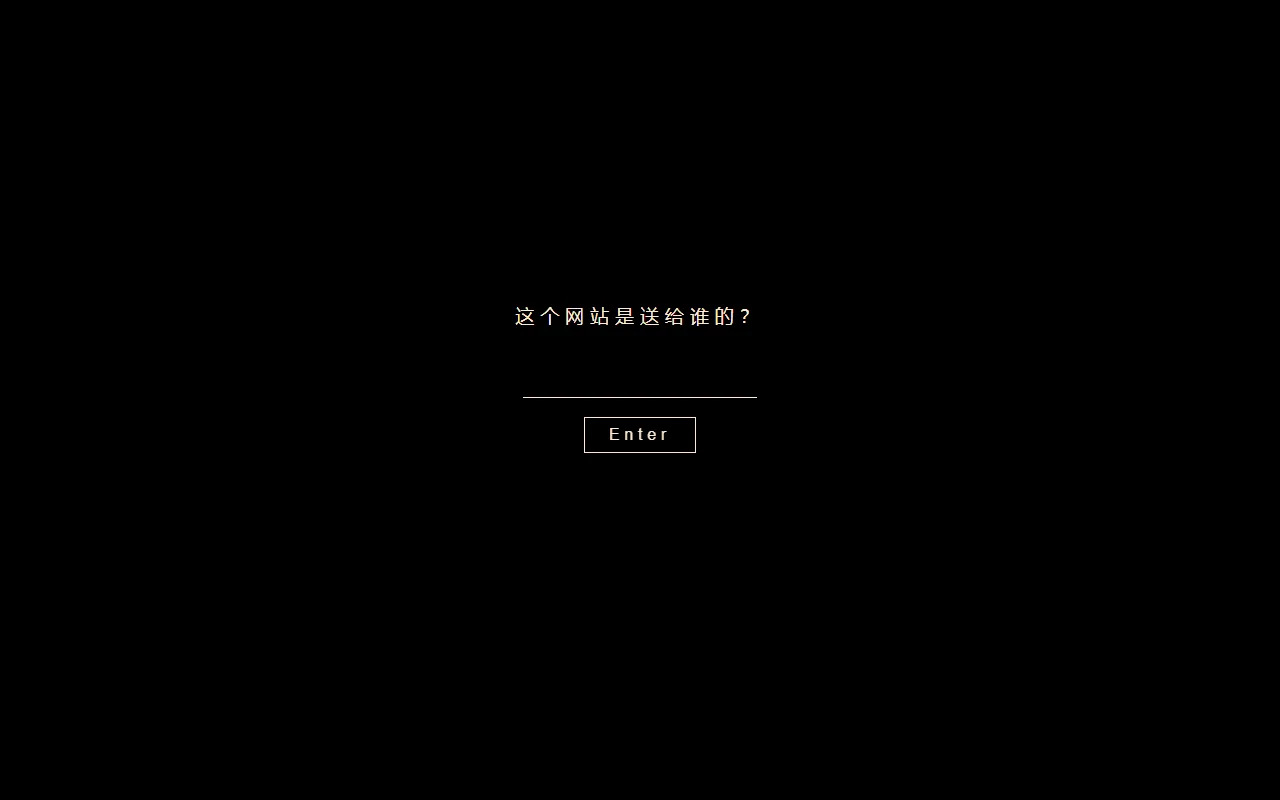
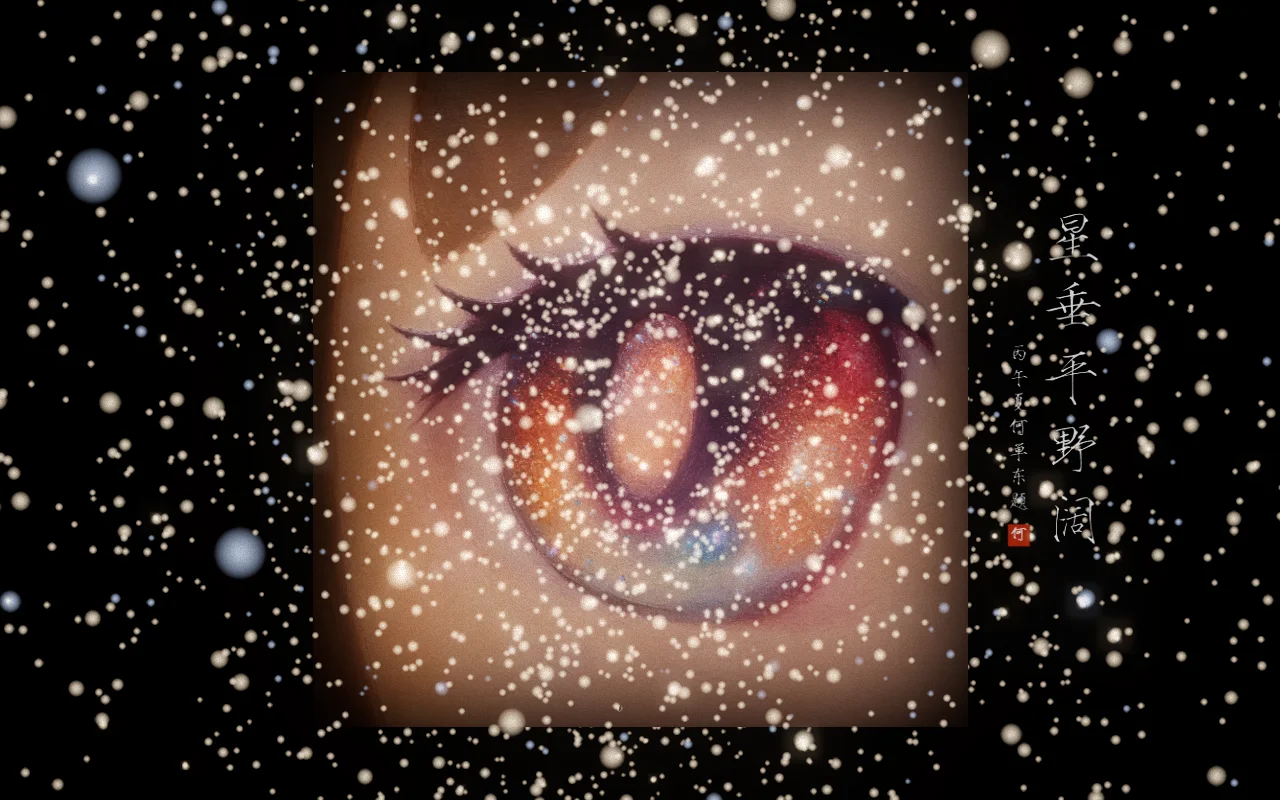
Show Starry-Eyes artwork and highlight PhD opportunities

diff --git a/index.html b/index.html
@@ -3,24 +3,24 @@
 <head>
 <meta charset="utf-8">
 <meta name="viewport" content="width=device-width,initial-scale=1">
-<title>Shandong He — Research & Engineering</title>
-<meta name="description" content="Shandong He builds full-stack applications, backend systems, and research-informed AI tools. Explore completed software projects and publications.">
+<title>Shandong He — Seeking PhD Opportunities</title>
+<meta name="description" content="Shandong He is a master’s student at Kyushu University seeking PhD opportunities in reliable AI and AI for Science. Explore research, publications, and software projects.">
 <meta name="theme-color" content="#f8f8f7">
 <link rel="canonical" href="https://lorendw7.github.io/">
 <meta property="og:type" content="website">
-<meta property="og:title" content="Shandong He — Research & Engineering">
-<meta property="og:description" content="Completed web and backend projects, a live product demo, and research in reliable AI.">
+<meta property="og:title" content="Shandong He — Seeking PhD Opportunities">
+<meta property="og:description" content="Seeking PhD opportunities in reliable AI and AI for Science. Research and software projects by Shandong He, Kyushu University.">
 <meta property="og:url" content="https://lorendw7.github.io/">
 <meta property="og:image" content="https://lorendw7.github.io/assets/hero-bg.jpg">
 <meta name="twitter:card" content="summary_large_image">
-<meta name="twitter:title" content="Shandong He — Research & Engineering">
-<meta name="twitter:description" content="Completed software projects and research in reliable AI.">
+<meta name="twitter:title" content="Shandong He — Seeking PhD Opportunities">
+<meta name="twitter:description" content="Kyushu University master’s student seeking PhD opportunities in reliable AI and AI for Science.">
 <meta name="twitter:image" content="https://lorendw7.github.io/assets/hero-bg.jpg">
 <link rel="icon" href="assets/favicon.svg?v=monochrome-20261009" type="image/svg+xml">
-<link rel="stylesheet" href="styles.css?v=20261015-previews">
-<link rel="stylesheet" href="simplefolio.css?v=20261015-previews">
-<script src="navigation.js?v=20261015-previews" defer></script>
-<script src="main.js?v=20261015-previews" defer>
+<link rel="stylesheet" href="styles.css?v=20261015-phd">
+<link rel="stylesheet" href="simplefolio.css?v=20261015-phd">
+<script src="navigation.js?v=20261015-phd" defer></script>
+<script src="main.js?v=20261015-phd" defer>
 </script>
 </head>
 <body>
@@ -65,16 +65,17 @@
 <br>
 <em>Shandong He.</em>
 </h1>
-<p class="hero-role">Software engineering · Backend &amp; full-stack</p>
-<p class="hero-intro">I'm a master's student at Kyushu University. I build web applications, APIs, and microservices, and study how to make AI systems more reliable. From a concrete problem to working software.</p>
+<p class="hero-role">Seeking PhD opportunities · Reliable AI &amp; AI for Science</p>
+<p class="hero-intro">I'm a master's student at Kyushu University, studying how to make AI systems more reliable. My interests include knowledge graphs, language models, and scientific computing. I combine research experiments with hands-on software development.</p>
 <div class="hero-links">
-<a class="button primary cta-btn cta-btn--hero" href="#projects">
-<span>Explore projects</span> ↗</a>
+<a class="button primary cta-btn cta-btn--hero" href="#research">
+<span>Explore research</span> ↗</a>
+<a class="text-link" href="#projects">Software projects ↗</a>
 <a class="text-link" href="https://github.com/lorendw7" target="_blank" rel="noopener noreferrer">GitHub ↗</a>
 </div>
 <div class="hero-note">
-<span class="small-label">CAREER FOCUS</span>
-<span>Expected Mar 2028 · Seeking software and AI engineering roles in Japan</span>
+<span class="small-label">PHD OPPORTUNITIES</span>
+<span>Seeking doctoral research opportunities · M.S. expected Mar 2028</span>
 </div>
 </div>
 <figure class="hero-image">
@@ -85,13 +86,13 @@
 </figure>
 </section>
 <div class="focus-strip">
-<span>Java / Spring Boot</span>
-<span aria-hidden="true">✳</span>
-<span>Python / TypeScript</span>
-<span aria-hidden="true">✳</span>
-<span>APIs &amp; microservices</span>
-<span aria-hidden="true">✳</span>
 <span>Reliable AI</span>
+<span aria-hidden="true">✳</span>
+<span>Knowledge graphs</span>
+<span aria-hidden="true">✳</span>
+<span>Language models</span>
+<span aria-hidden="true">✳</span>
+<span>Scientific computing</span>
 </div>
 <section class="section" id="projects" aria-labelledby="projects-title">
 <div class="section-heading">
@@ -200,8 +201,8 @@
 <div class="project-top"><span>09 / CREATIVE CODING</span><span class="live-badge">Live website</span></div>
 <a class="project-mark live-preview website-preview" href="https://starry-eyes.vercel.app/" target="_blank" rel="noopener noreferrer" aria-label="Open Starry-Eyes website (opens in a new tab)">
 <span class="preview-address"><span class="preview-dots" aria-hidden="true">● ● ●</span><span>starry-eyes.vercel.app</span><span aria-hidden="true">↗</span></span>
-<img src="assets/projects/starry-eyes-1280.webp" srcset="assets/projects/starry-eyes-640.webp 640w, assets/projects/starry-eyes-1280.webp 1280w" sizes="(max-width:650px) calc(100vw - 48px), (max-width:1000px) 50vw, 600px" width="1280" height="800" loading="lazy" decoding="async" alt="Starry-Eyes entry screen with an access question and Enter button.">
-<span class="preview-caption"><span>Entry screen · Access required</span><span class="preview-cta">Visit website <span aria-hidden="true">↗</span></span></span>
+<img src="assets/projects/starry-eyes-1280.webp?v=20261015-art" srcset="assets/projects/starry-eyes-640.webp?v=20261015-art 640w, assets/projects/starry-eyes-1280.webp?v=20261015-art 1280w" sizes="(max-width:650px) calc(100vw - 48px), (max-width:1000px) 50vw, 600px" width="1280" height="800" loading="lazy" decoding="async" alt="Starry-Eyes rendered artwork: a luminous painted eye floating among stars, with vertical calligraphy.">
+<span class="preview-caption"><span>Rendered starfield · Access required</span><span class="preview-cta">Visit website <span aria-hidden="true">↗</span></span></span>
 </a>
 <h3><a class="project-link" href="https://starry-eyes.vercel.app/" target="_blank" rel="noopener noreferrer" aria-label="Starry-Eyes live website (opens in a new tab)">Starry-Eyes</a></h3>
 <p>An interactive 3D artwork with PBR brush strokes, an audio-reactive starfield, cinematic camera movement, and responsive rendering. The deployed experience has a recipient access check.</p>
@@ -289,7 +290,7 @@
 <section class="section about-section" id="about" aria-labelledby="about-title">
 <div class="about-intro">
 <p class="eyebrow">04 / ABOUT</p>
-<h2 id="about-title">Between research and engineering.</h2>
+<h2 id="about-title">Research grounded in working systems.</h2>
 <p>I&#x27;m pursuing an M.S. in Information Science and Electrical Engineering at Kyushu University, with interests spanning CFD, HPC, and large language models. I learn through experiments, papers, and working software.</p>
 <img class="portrait" src="assets/cv.png" alt="Illustrated portrait of Shandong He" width="96" height="96" loading="lazy">
 </div>
@@ -332,9 +333,9 @@
 </section>
 <section class="contact-section" id="contact">
 <p class="eyebrow">05 / SAY HELLO</p>
-<h2>Good work starts with a conversation.</h2>
+<h2>Let’s discuss doctoral research.</h2>
 <div>
-<p>Let&#x27;s talk about AI research, software engineering, or a possible collaboration. CV available on request.</p>
+<p>I’m seeking PhD opportunities in reliable AI and AI for Science, and welcome conversations with prospective supervisors and research collaborators. M.S. completion is expected in March 2028. CV available on request.</p>
 <a class="button primary" href="https://github.com/lorendw7" target="_blank" rel="noopener noreferrer">
 <span>Find me on GitHub ↗</span>
 </a>

diff --git a/project-notes.html b/project-notes.html
@@ -7,10 +7,10 @@
 <meta name="description" content="Implementation notes and source evidence for five selected software projects by Shandong He.">
 <meta name="theme-color" content="#f8f8f7">
 <link rel="icon" href="assets/favicon.svg?v=monochrome-20261009" type="image/svg+xml">
-<link rel="stylesheet" href="styles.css?v=20261015-previews">
-<script src="navigation.js?v=20261015-previews" defer></script>
-<script src="project-notes.js?v=20261015-previews" defer></script>
-<link rel="stylesheet" href="simplefolio.css?v=20261015-previews">
+<link rel="stylesheet" href="styles.css?v=20261015-phd">
+<script src="navigation.js?v=20261015-phd" defer></script>
+<script src="project-notes.js?v=20261015-phd" defer></script>
+<link rel="stylesheet" href="simplefolio.css?v=20261015-phd">
 </head>
 <body>
 <a class="skip-link" href="#main">Skip to content</a>

diff --git a/styles.css b/styles.css
@@ -174,6 +174,7 @@ h1 em {
 }
 .hero-links {
   display:flex;
+  flex-wrap:wrap;
   align-items:center;
   gap:26px;
   margin-top:30px

diff --git a/README.md b/README.md
@@ -6,13 +6,13 @@ A dependency-free English-only research and engineering portfolio for GitHub Pag
 
 The default is a customized **Simplefolio** layout: a direct introduction, original coffee/CFD photography, generous whitespace, and project rows pairing implementation descriptions with flow illustrations or real deployed-website screenshots. See [THIRD_PARTY_NOTICES.md](THIRD_PARTY_NOTICES.md) for source references and the preserved MIT license.
 
-- `index.html`: English-only content; five featured projects ordered for backend/software engineering roles: PatientFlow Cloud, Life Preference, Gitlet, Agent Skills Manager, and Inkline. More projects follow in the archive: SkyEats, LLM Forge, Goat Notes, Starry-Eyes, and the BalloonBarrage prototype.
+- `index.html`: English-only content; five featured software projects: PatientFlow Cloud, Life Preference, Gitlet, Agent Skills Manager, and Inkline. More projects follow in the archive: SkyEats, LLM Forge, Goat Notes, Starry-Eyes, and the BalloonBarrage prototype.
 - `styles.css` and `simplefolio.css`: shared styles and the scoped template adaptation, including desktop/mobile, keyboard focus, print, and reduced-motion support.
 - `main.js`: mobile navigation, project filters, featured-project shortcuts, and active-section tracking.
 - `project-notes.html` and `project-notes.js`: English-only implementation evidence and limitations for the five featured projects.
 - Original `assets/hero-bg.jpg` and `assets/hero-bg-portrait.jpg` are unchanged and displayed in full at their native aspect ratios.
 - `design-preview.html` preserves the earlier comparison layouts, selectable with `?design=academic`, `?design=editorial`, or `?design=bento`. Default is `simplefolio`; all variants use English-only content.
-- Career focus remains full-time engineering opportunities in Japan, expected graduation March 2028. Employer-specific interview preparation is private and outside this repository.
+- Current focus is PhD opportunities in reliable AI and AI for Science, with expected M.S. completion in March 2028. The hero, research CTA, contact section, and sharing metadata reflect this direction. Employer-specific interview preparation is private and outside this repository.
 - GitHub profile source is maintained in the separate `lorendw7/lorendw7` repository.
 
 No runtime dependencies, external fonts, analytics, or build step. Essential content and mobile navigation remain usable without JavaScript. Run a static file server for local preview.
@@ -71,3 +71,7 @@ Supporting browsers use a short native cross-document view transition between th
 ## Website screenshots (2026-10-15)
 
 The three deployed projects now use real local WebP captures with browser-style address bars and linked captions. Two image sizes, intrinsic dimensions, and lazy decoding/loading keep the previews lightweight and stable on mobile. See `assets/projects/README.md` for capture sources and states. Inkline uses a synthetic demo document; Starry-Eyes explicitly identifies its access check; BalloonBarrage opens the English project homepage. Portfolio text remains English while screenshots preserve the original interfaces. Navigation tests also verify image decoding, aspect ratio, frame containment, and clickable previews across the design variants.
+
+## PhD focus and artwork preview (2026-10-15)
+
+At the user’s request, the portfolio now states that Shandong He is seeking PhD opportunities. The primary introduction links to research; software projects remain accessible as implementation evidence. No doctoral admission, enrollment, supervisor, location restriction, or start date is claimed. Starry-Eyes now shows the actual artwork rendered from the local project source in an isolated preview, without publishing the access answer or personal closing message. The deployed site still requires its existing access check.

diff --git a/assets/projects/README.md b/assets/projects/README.md
@@ -1,11 +1,11 @@
 # Website previews
 
-Real browser screenshots captured on 2026-10-15 at 1280 × 800, exported as WebP at 640 × 400 and 1280 × 800. The portfolio uses responsive sources, explicit dimensions and lazy loading. Screenshots are static snapshots; links open the current websites.
+Real browser-rendered screenshots captured on 2026-10-15 at 1280 × 800, exported as WebP at 640 × 400 and 1280 × 800. The portfolio uses responsive sources, explicit dimensions and lazy loading. Screenshots are static snapshots; links open the current websites.
 
 | Asset | Source | Captured state |
 | --- | --- | --- |
 | `inkline-*` | https://lorendw7.github.io/inkline/ | Signature dialog with a synthetic sample PDF and a handwritten “Demo” signature. No personal document or real signature is included. |
-| `starry-eyes-*` | https://starry-eyes.vercel.app/ | Public entry screen. The experience requires recipient verification; the screenshot does not bypass that check. Original interface text is preserved. |
+| `starry-eyes-*` | https://starry-eyes.vercel.app/ | Post-entry starfield rendered from the existing local project source in an isolated browser preview. Only asset imports were adapted for the preview server; the scene, materials, camera, and animation were unchanged. The local gate response was stubbed; the deployed site was not modified. The screenshot excludes the personal closing message. |
 | `balloonbarrage-*` | https://lorendw7.github.io/BalloonBarrage/en/ | English project homepage, showing the in-development rhythm shooter. This is a project website, not a playable game build. |
 
-To refresh, capture the corresponding public website at the same viewport, inspect the image, and regenerate both WebP sizes. Keep demo inputs synthetic. Do not replace real interface screenshots with generated mockups.
+To refresh, capture the corresponding website or documented local artwork preview at the same viewport, inspect the image, and regenerate both WebP sizes. Keep demo inputs synthetic. Do not replace real interface screenshots with generated mockups.
